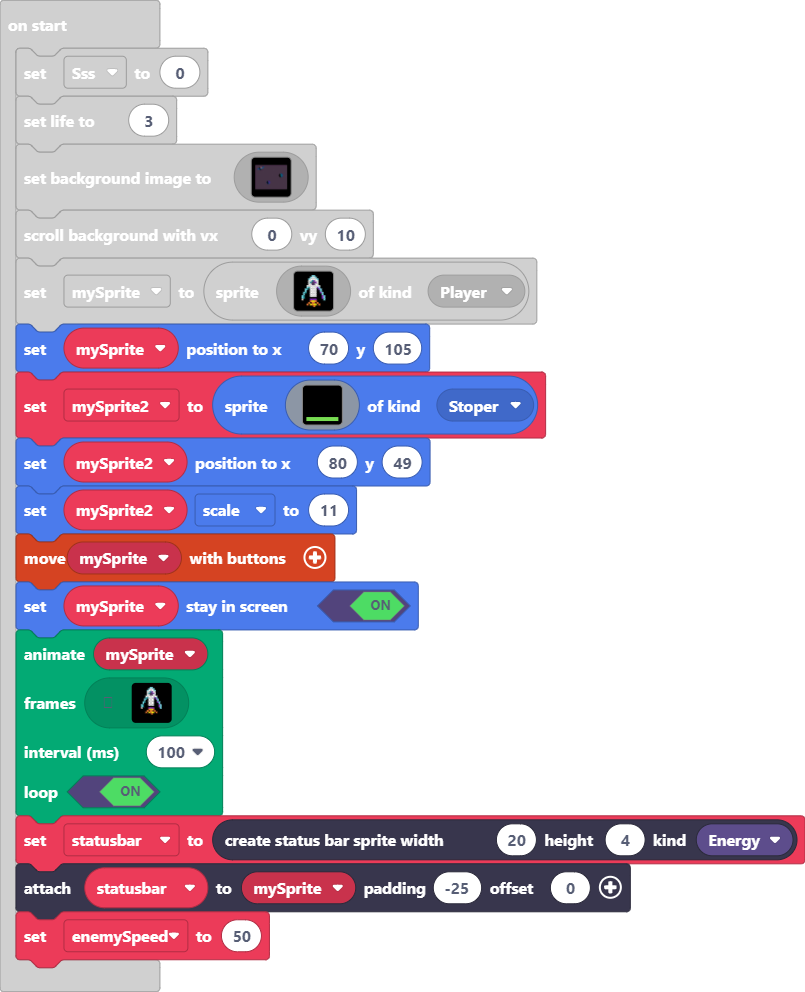
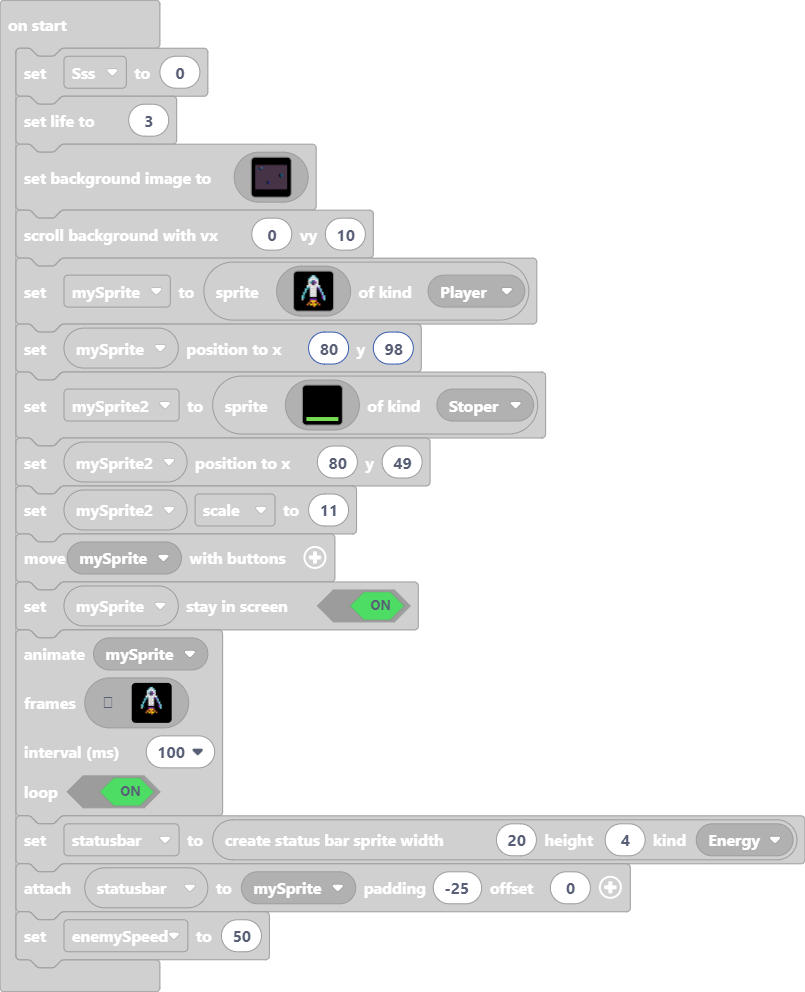
Update main.blocks, main.ts

Changed region(s): [[0.0, 0.3125, 1.0, 1.0]]

diff --git a/main.ts b/main.ts
@@ -69,7 +69,7 @@ info.setLife(3)
 scene.setBackgroundImage(assets.image`Galaxy`)
 scroller.scrollBackgroundWithSpeed(0, 10)
 mySprite = sprites.create(assets.image`Rocket`, SpriteKind.Player)
-mySprite.setPosition(70, 105)
+mySprite.setPosition(80, 98)
 let mySprite2 = sprites.create(img`
     . . . . . . . . . . . . . . . . 
     . . . . . . . . . . . . . . . . 
